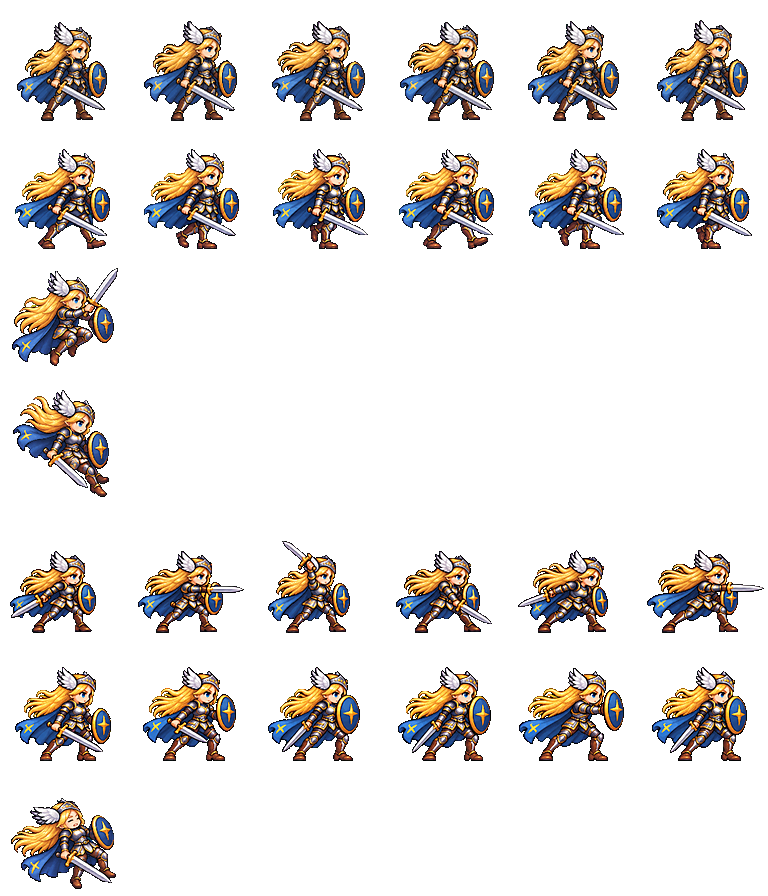
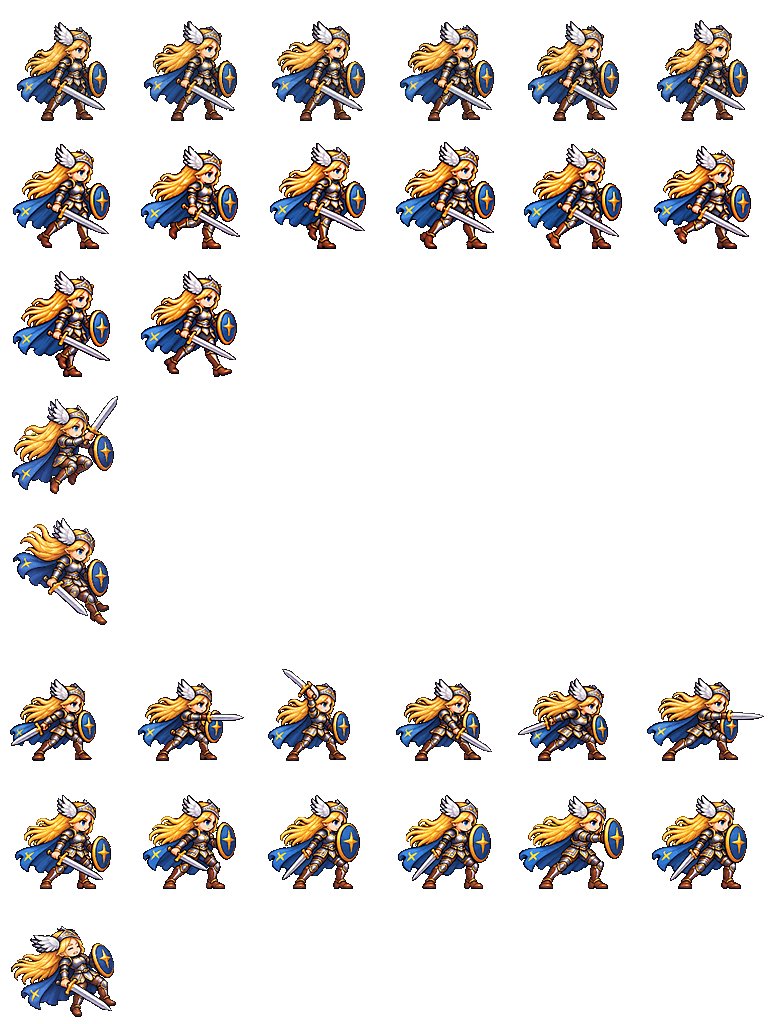
Frey and Luna: the 8-frame walk in the game (user adopted v6/v5); Brave Luna keeps her 6-frame walk in her own table
The base sheets grow to 768x1024: the walk fills rows 1-2 (6 + 2 frames) at
13.3 fps. Luna's two forms no longer share one base table (BRAVE_SHEET_ROWS).
Tests read the walk length from each character's table; the viewer reads
Brave Luna's base table. Also: Luna transform/tumble as WebP for the user.

diff --git a/routine/2026-10-15-night/README.md b/routine/2026-10-15-night/README.md
@@ -1,15 +1,16 @@
 # 취침 루틴 · 2026-10-15 · SmashNine
 
-## 지금 상태 (00:40 갱신)
-- 단계: 작업 · 경과 0:05 · 기준 마감 04:05 (최대 04:30, 절전)
-- 지금: 걷기 카드(ART-59) 작성 → Codex A·B 시작
-- 다음: Frey·Luna 걷기 게임 반영
-- 완료: 작업 0/7 · 커밋 0개 · 검사 —
+## 지금 상태 (00:55 갱신)
+- 단계: 작업 · 경과 0:20 · 기준 마감 04:05 (최대 04:30, 절전)
+- 지금: Frey·Luna 걷기 반영 검사 중 · Codex A 걷기(Brave Luna → Yuki) · Codex B Rio 기준 대기
+- 다음: 걷기 결과 검수·반영, Rio 동작 줄(ART-61, 카드 준비됨)
+- 완료: 작업 0/7 · 커밋 5개 · 검사 진행 중
 - 막힌 것: 없음
 
 ## 사용자 지시 (원문)
 > 일단 전보다는 나으니...일단 이렇게 하는 것으로 채택. 다른 캐릭터들도 진행하고, 이후 Rio의 스프라이트 리메이크 진행. 완성 될 때 까지 루틴으로. 단, 이번처럼 여러번 실패로 쓸데없는 컨텍스트 낭비는 하지 말고 성공한 사례만 따라갈것.
 > 루틴 계획서 만들고 즉시 승인할테니 시작.
+> (00:41) 루틴 진행하면서, 먼저 Luna의 변신 씬, tumble 씬을 webp로 만들어서 출력할것.
 
 ## 승인된 제안서
 승인 00:32 (사용자 "즉시 승인할테니 시작") · 실행 방식 Codex 사용 2개
@@ -94,6 +95,11 @@
 
 ## 기록 (시간순)
 - 00:35 시계 시작 (기준 210분, 최대 240분)
+- 00:40 ART-59 카드(걷기 4명, ART-57+58 방법을 합침) · Codex A 시작(Brave Luna → Yuki) · `0b1f23f`
+- 00:43 사용자 변경: Luna 변신·tumble을 webp로. `results/luna-transform.webp`(12칸, 12fps, 576px)와 `results/luna-tumble.webp`(6칸, 21fps)를 보냄
+- 00:45 ART-60 카드(Rio 기준 대기, Nova ART-51 방식) · Codex B 시작 · `44e20b1`
+- 00:50 Frey v6·Luna v5 걷기 시트 반영(기본 시트 768×1024, 걷기가 두 줄). Brave Luna는 자기 표 `BRAVE_SHEET_ROWS`(걷기 6칸)를 씀 · 검사 실행
+- 00:55 ART-61 카드(Rio 동작 줄, Nova ART-52 방식 + 걷기 ART-59) 준비 · `e50c729`
 
 ## 결과
 | 작업 | 만든 것 | 확인(숫자 · 그림 · 커밋) |
